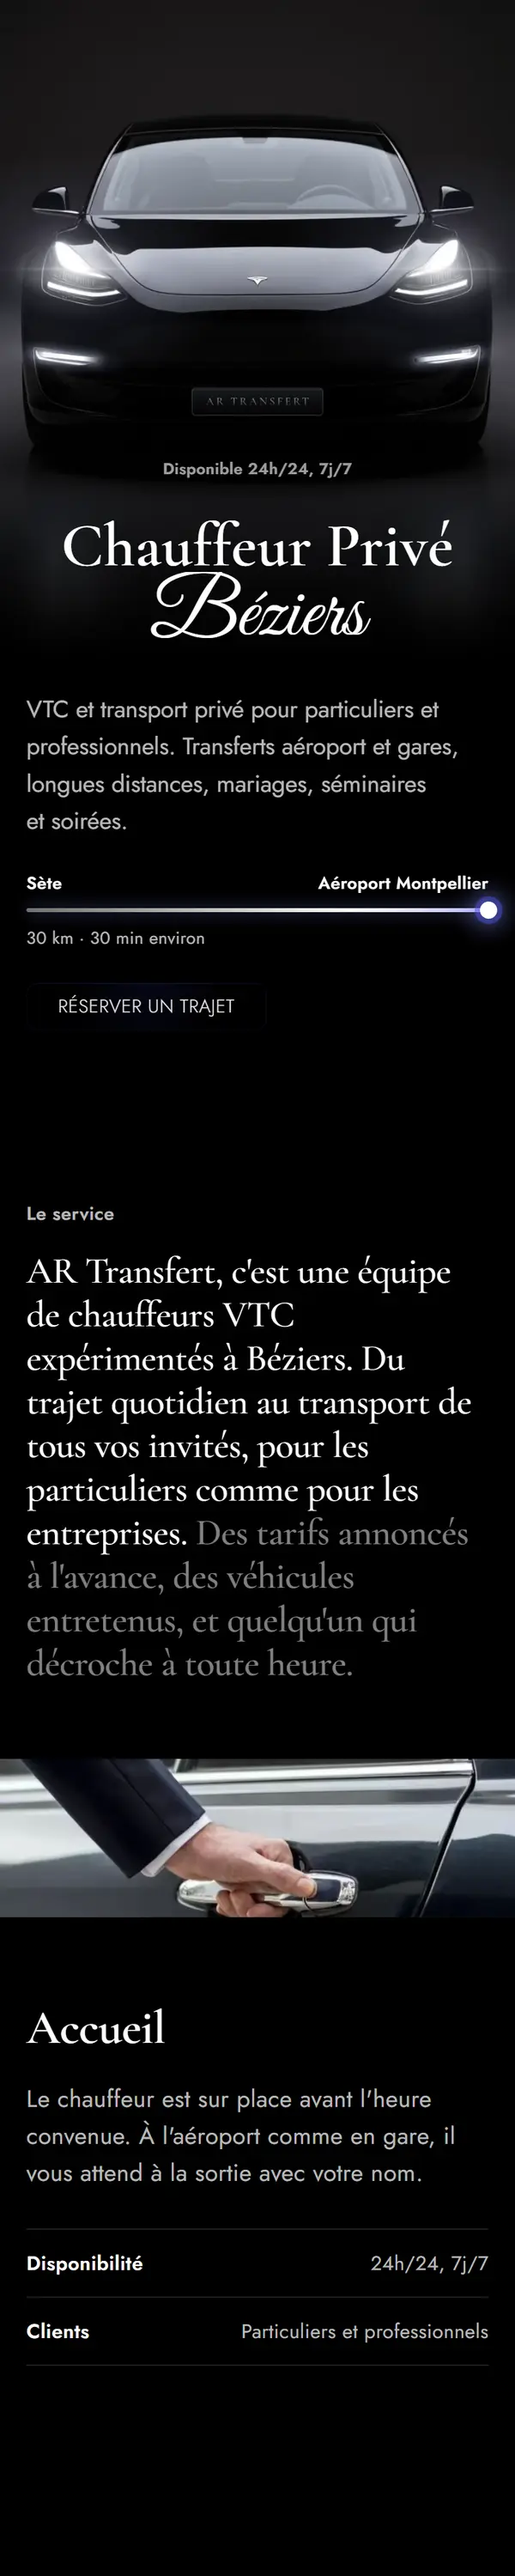
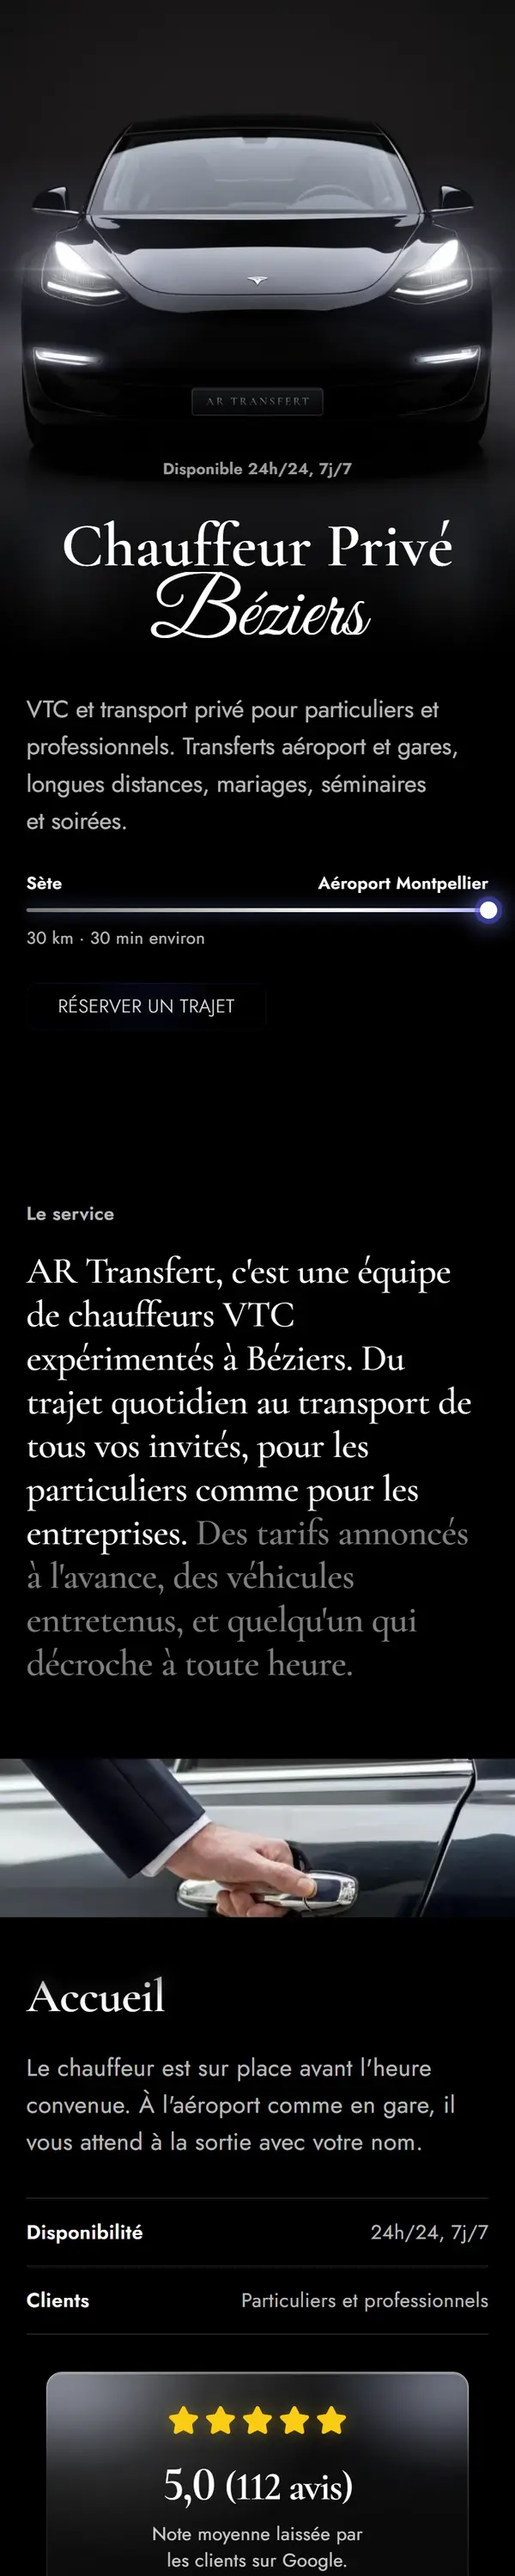
Roue des sites : AR Transfert à jour (note Google, réservation)
Nouvelle capture de la page entière après les changements de 18 h 39 à
19 h 18 : la carte de note Google (5,0, 112 avis) sous le chapitre Accueil,
les boutons et les choix du formulaire en violet. Le haut de page n'a pas
changé : la vidéo de la carte est gardée telle quelle.

Outil de capture : la carte de note se remet à zéro hors de l'écran ; elle
est prise dans son état final (visible, étoiles et phares allumés, note et
nombre d'avis écrits juste avant l'image).

Changed region(s): [[0.06, 0.775, 0.96, 1.0]]

diff --git a/stalika/lib/realisations.ts b/stalika/lib/realisations.ts
@@ -78,7 +78,7 @@ export const REALISATIONS: Realisation[] = [
     reprise: 6.05,
     alt: "Le haut du site d'AR Transfert sur téléphone : son logo, une berline noire qui sort de la nuit, phares allumés, plaque AR TRANSFERT, le titre « Chauffeur Privé », « Béziers » en lettres calligraphiées, et la mention Disponible 24h/24, 7j/7.",
     fond: "#000000",
-    tranches: [3000, 3000, 3000, 1658],
+    tranches: [3000, 3000, 3000, 1944],
   },
   {
     id: "pizzeria",

diff --git a/outils/realisations/LISEZMOI.md b/outils/realisations/LISEZMOI.md
@@ -65,9 +65,10 @@ AR Transfert (2026-10-04, refaite à 16 h 15 après l'arrivée du logo et des bo
 `node capturer.mjs ar-transfert https://ar-transfert-apercu.vercel.app 30 --pleine-page`. Le site
 remet ses apparitions à zéro quand elles quittent l'écran et n'allume que le chapitre qu'on lit :
 `capturer.mjs` les fige pour la page entière (`MASQUES`), avec la barre de trajet pleine ; il pose le
-reflet des boutons au repos (`FIGES_PAGE`), garde le bandeau photo des récits, collant mais plus bas
-que le seuil des barres (`GARDES`), et attend 5,5 s en haut de page que le héros ait rejoué son
-entrée (`ATTENTE_HAUT`). Pour ne refaire que la page sans refilmer le haut (et garder les instants
+reflet des boutons au repos et la carte de note Google dans son état final (`FIGES_PAGE`, et
+`FIGES_JS` pour la note et le nombre d'avis, que la carte remet à zéro hors de l'écran), garde le
+bandeau photo des récits, collant mais plus bas que le seuil des barres (`GARDES`), et attend 5,5 s
+en haut de page que le héros ait rejoué son entrée (`ATTENTE_HAUT`). Pour ne refaire que la page sans refilmer le haut (et garder les instants
 de boucle déjà relevés) : `--page-seule`. La boucle vit sur deux rythmes qui ne se recalent jamais (les appels de
 phares, le reflet du bouton de l'en-tête) : ses deux bouts se prennent là où les deux sont au repos,
 trouvés en mesurant l'écart d'une image à la suivante, zone par zone, sur les images décodées
